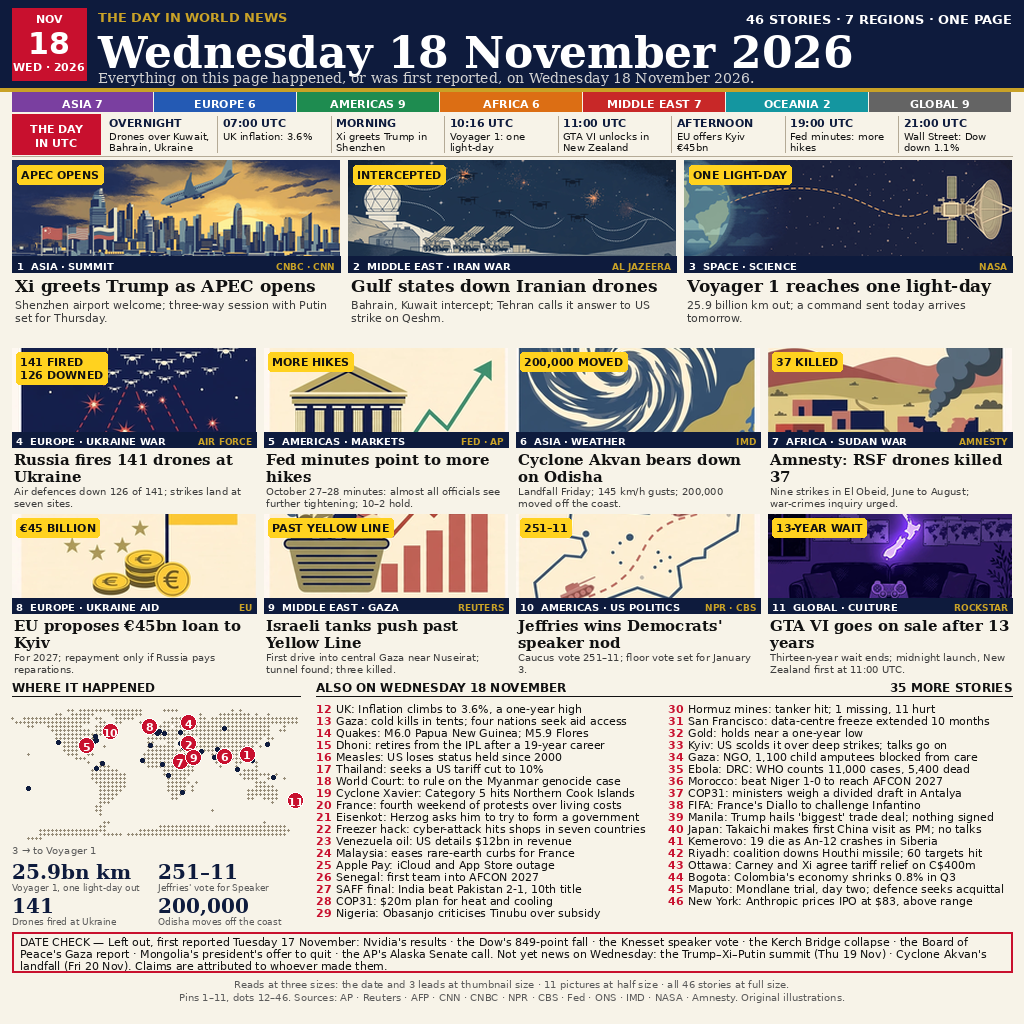
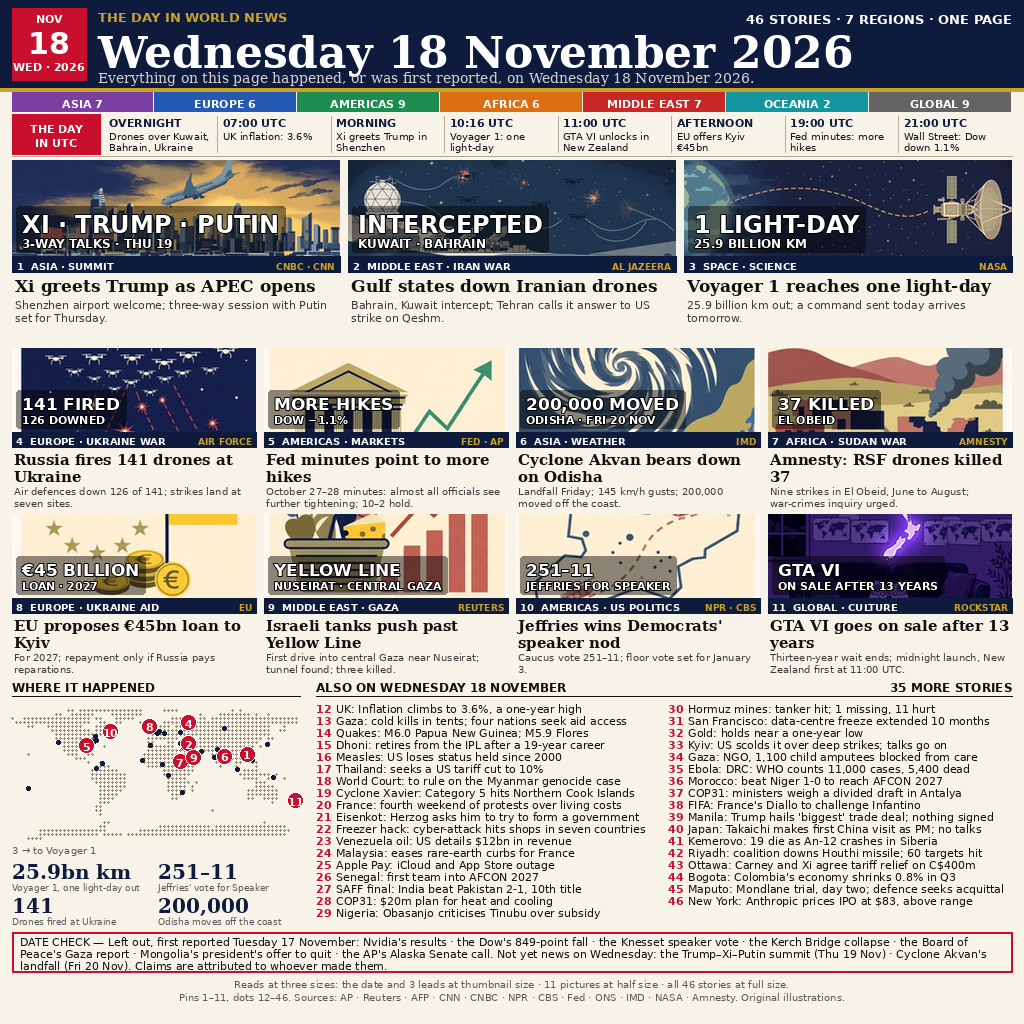
v9: big in-art text on all 11 front images, rstrike-style

diff --git a/draw.py b/draw.py
@@ -1,5 +1,5 @@
 #!/usr/bin/env python3
-"""news-image-20261118 v8: 46 stories, UTC timeline, region strip, in-art labels.
+"""news-image-20261118 v9: 46 stories, UTC timeline, region strip, big in-art text.
 Draws entry.png (1024x1024, deterministic) from assets/ + world.geo.json.
 Run: python3 draw.py  -> writes entry.png in this directory."""
 import json
@@ -39,6 +39,10 @@ F_HEAD_S = font("DejaVuSerif-Bold.ttf", 15)
 F_DECK = font("DejaVuSans.ttf", 11)
 F_DECK_S = font("DejaVuSans.ttf", 10)
 F_LABEL = font("DejaVuSans-Bold.ttf", 11)
+F_ART = font("DejaVuSans-Bold.ttf", 24)
+F_ART_S = font("DejaVuSans-Bold.ttf", 12)
+F_ART2 = font("DejaVuSans-Bold.ttf", 17)
+F_ART2_S = font("DejaVuSans-Bold.ttf", 11)
 F_ALSO = font("DejaVuSans.ttf", 11)
 F_ALSO_N = font("DejaVuSans-Bold.ttf", 11)
 F_SEC = font("DejaVuSans-Bold.ttf", 12)
@@ -68,52 +72,52 @@ TIMELINE = [
     ("21:00 UTC", "Wall Street: Dow down 1.1%"),
 ]
 
-# num, region, topic, source, headline, deck, in-art label, image
+# num, region, topic, source, headline, deck, in-art big, in-art small, image
 FRONT = [
     (1, "ASIA", "SUMMIT", "CNBC \u00b7 CNN",
      "Xi greets Trump as APEC opens",
      "Shenzhen airport welcome; three-way session with Putin set for Thursday.",
-     "APEC OPENS", "hero7a.png"),
+     "XI \u00b7 TRUMP \u00b7 PUTIN", "3-WAY TALKS \u00b7 THU 19", "hero7a.png"),
     (2, "MIDDLE EAST", "IRAN WAR", "AL JAZEERA",
      "Gulf states down Iranian drones",
      "Bahrain, Kuwait intercept; Tehran calls it answer to US strike on Qeshm.",
-     "INTERCEPTED", "hero7b.png"),
+     "INTERCEPTED", "KUWAIT \u00b7 BAHRAIN", "hero7b.png"),
     (3, "SPACE", "SCIENCE", "NASA",
      "Voyager 1 reaches one light-day",
      "25.9 billion km out; a command sent today arrives tomorrow.",
-     "ONE LIGHT-DAY", "hero7c.png"),
+     "1 LIGHT-DAY", "25.9 BILLION KM", "hero7c.png"),
     (4, "EUROPE", "UKRAINE WAR", "AIR FORCE",
      "Russia fires 141 drones at Ukraine",
      "Air defences down 126 of 141; strikes land at seven sites.",
-     "141 FIRED / 126 DOWNED", "s7-4.png"),
+     "141 FIRED", "126 DOWNED", "s7-4.png"),
     (5, "AMERICAS", "MARKETS", "FED \u00b7 AP",
      "Fed minutes point to more hikes",
      "October 27\u201328 minutes: almost all officials see further tightening; 10\u20132 hold.",
-     "MORE HIKES", "s7-5.png"),
+     "MORE HIKES", "DOW \u22121.1%", "s7-5.png"),
     (6, "ASIA", "WEATHER", "IMD",
      "Cyclone Akvan bears down on Odisha",
      "Landfall Friday; 145 km/h gusts; 200,000 moved off the coast.",
-     "200,000 MOVED", "s7-6.png"),
+     "200,000 MOVED", "ODISHA \u00b7 FRI 20 NOV", "s7-6.png"),
     (7, "AFRICA", "SUDAN WAR", "AMNESTY",
      "Amnesty: RSF drones killed 37",
      "Nine strikes in El Obeid, June to August; war-crimes inquiry urged.",
-     "37 KILLED", "s7-7.png"),
+     "37 KILLED", "EL OBEID", "s7-7.png"),
     (8, "EUROPE", "UKRAINE AID", "EU",
      "EU proposes \u20ac45bn loan to Kyiv",
      "For 2027; repayment only if Russia pays reparations.",
-     "\u20ac45 BILLION", "s7-8.png"),
+     "\u20ac45 BILLION", "LOAN \u00b7 2027", "s7-8.png"),
     (9, "MIDDLE EAST", "GAZA", "REUTERS",
      "Israeli tanks push past Yellow Line",
      "First drive into central Gaza near Nuseirat; tunnel found; three killed.",
-     "PAST YELLOW LINE", "s7-9.png"),
+     "YELLOW LINE", "NUSEIRAT \u00b7 CENTRAL GAZA", "s7-9.png"),
     (10, "AMERICAS", "US POLITICS", "NPR \u00b7 CBS",
      "Jeffries wins Democrats' speaker nod",
      "Caucus vote 251\u201311; floor vote set for January 3.",
-     "251\u201311", "s7-10.png"),
+     "251\u201311", "JEFFRIES FOR SPEAKER", "s7-10.png"),
     (11, "GLOBAL", "CULTURE", "ROCKSTAR",
      "GTA VI goes on sale after 13 years",
      "Thirteen-year wait ends; midnight launch, New Zealand first at 11:00 UTC.",
-     "13-YEAR WAIT", "s8-11.png"),
+     "GTA VI", "ON SALE AFTER 13 YEARS", "s8-11.png"),
 ]
 
 # num, city, text
@@ -227,6 +231,24 @@ def pill(d, x, y, text, fg=INK, bg=YELLOW, fnt=F_LABEL, pad=4):
     return w, h
 
 
+def art_text(img, d, x, y, w, h, big, small, f_big, f_small):
+    """Big short text inside the art, rstrike-style: white bold on a dark scrim."""
+    bw = int(d.textlength(big, font=f_big))
+    sw = int(d.textlength(small, font=f_small)) if small else 0
+    tw = max(bw, sw)
+    bh = f_big.size + f_small.size + 10
+    ox = Image.new("RGBA", img.size, (0, 0, 0, 0))
+    od = ImageDraw.Draw(ox)
+    od.rounded_rectangle([x + 4, y + h - bh - 4, x + 4 + tw + 12, y + h - 4],
+                         radius=3, fill=(0, 0, 0, 115))
+    img.paste(ox, (0, 0), ox)
+    d.text((x + 10, y + h - bh), big, font=f_big, fill="white",
+           stroke_width=1, stroke_fill=(0, 0, 0))
+    if small:
+        d.text((x + 10, y + h - bh + f_big.size + 2), small, font=f_small,
+               fill="white", stroke_width=1, stroke_fill=(0, 0, 0))
+
+
 # pixel nudges so clustered pins stay readable (map is small)
 PIN_OFF = {2: (-8, -8), 4: (8, -10), 5: (-8, 4), 8: (-10, -6), 9: (10, 10),
            10: (16, -10)}
@@ -323,11 +345,11 @@ def main():
     # ---- heroes 160-342 ----
     hy = 160
     hw = 328
-    for i, (num, reg, topic, src, head, deck, label, fn) in enumerate(FRONT[:3]):
+    for i, (num, reg, topic, src, head, deck, big, small, fn) in enumerate(FRONT[:3]):
         cx = 12 + i * (hw + 8)
         im = cover(Image.open(os.path.join(A, fn)).convert("RGB"), hw, 96)
         img.paste(im, (cx, hy))
-        pill(d, cx + 5, hy + 5, label)
+        art_text(img, d, cx, hy, hw, 96, big, small, F_ART, F_ART_S)
         d.rectangle([cx, hy + 96, cx + hw, hy + 112], fill=NAVY)
         d.text((cx + 5, hy + 100), "%d  %s \u00b7 %s" % (num, reg, topic),
                font=F_KICK, fill="white")
@@ -346,12 +368,12 @@ def main():
     for r in range(2):
         for c in range(4):
             k = 3 + r * 4 + c
-            num, reg, topic, src, head, deck, label, fn = FRONT[k]
+            num, reg, topic, src, head, deck, big, small, fn = FRONT[k]
             cx = 12 + c * (sw_ + 8)
             cy = 348 + r * 166
             im = cover(Image.open(os.path.join(A, fn)).convert("RGB"), sw_, 84)
             img.paste(im, (cx, cy))
-            pill(d, cx + 4, cy + 4, label)
+            art_text(img, d, cx, cy, sw_, 84, big, small, F_ART2, F_ART2_S)
             d.rectangle([cx, cy + 84, cx + sw_, cy + 99], fill=NAVY)
             d.text((cx + 4, cy + 87), "%d  %s \u00b7 %s" % (num, reg, topic),
                    font=F_KICK, fill="white")

diff --git a/NOTES.md b/NOTES.md
@@ -17,4 +17,6 @@
 - NOT submitted. Shown to user first; submit ONLY on the user's explicit word "submit". Gate terakhir (v4): 13/14, satu gagal transcripts_run_record — berkas run record belum dibuat, menunggu keputusan user soal safety flag.
 - SUBMITTED v6 2026-11-18 16:01 WIB (atas perintah "Oke submit sekarang"): claim AF-EYMYS-WQP01-MGCX4-6TSMT, submission 01a1ede4-1429-71f5-8e21-704c4d99a822, grade 98.1243% (12-0), rank 757 live 2026-11-19 — jauh di luar top 50. Quota 1/3 used, 2 left.
 - Image v7 (user: lihat LB no 1, buat gambar sebagus LB 1 dan bisa menyaingi top 1, pakai 100milionseek): entry.png 1024x1024, 516,829 bytes (<1 MiB), sha256 a8efe014d0c454f0f44bda3241b76c3ada5ba9a8014531c167a28b1821f8a597, deterministic. Struktur rank 1 live (yoshifumi-nagata 99.2624%, 19 Nov): 11 cerita depan (3 hero + 8 kartu), sumber di tiap cerita, kotak DATE CHECK, 38 cerita, peta + legenda + 4 angka besar. Ilustrasi flat-vector baru (3 hero + 8 kecil, gaya koran). Front 11 hanya cerita yang jelas 18 Nov: APEC Xi-Trump Shenzhen, Bahrain/Kuwait cegat drone Iran, Voyager 1 satu hari-cahaya (25,9 miliar km, 10:16 UTC), Rusia 141 drone/126 jatuh, risalah Fed (10–2 tahan 3,75–4%), Siklon Akvan, Amnesty RSF El Obeid 37 tewas, pinjaman EU €45 miliar, inflasi UK 3,6%, tank Israel Nuseirat, Jeffries 251–11. Dow -849, hasil Nvidia, vote Knesset, runtuhnya jembatan Kerch dipindah ke DATE CHECK sebagai berita Selasa 17 Nov. Semua angka baru terverifikasi live 19 Nov (NASA, Fed, ONS, Amnesty, ISW). 100milionseek: API teks DeepSeek gratis (100M token/hari, 100milionseek.top), bukan generator gambar; butuh daftar email + human check untuk API key, jadi gambar dibuat dengan image tool + kode seperti biasa. v7 SUBMITTED 2026-11-19 12:02 WIB (atas perintah "Okey submit"): claim AF-7S8H7-VWRZK-C6HVM-1W021, submission 01a1f22f-7b53-7460-8f9d-0ecdb6f64c32, stage "scored", semua check server lolos termasuk transcripts_run_record. Leaderboard live 14:21 WIB: rank 152, 98.5464% — di luar top 50. main.py terverifikasi byte-for-byte.
-- Image v8 (user: kejar top 10, buat lagi yang lebih bagus menyaingi top 1, pakai 100milionseek, berita dan gambar harus nyambung): entry.png 1024x1024, 510,459 bytes (<1 MiB), sha256 3299633985eb16858d8cc887bd1df0e934e041447c917daf06919cb3f1cc6e2b, deterministic. Struktur top 1 live (rstrike 99.1808%, 19 Nov): strip region 7 wilayah + strip timeline UTC 8 beat (Overnight, 07:00 UK 3,6%, Morning Xi-Trump, 10:16 Voyager, 11:00 GTA VI NZ, Afternoon EU €45bn, 19:00 Fed, 21:00 Dow -1,1%) + 11 cerita depan dengan label angka DI DALAM gambar (141 FIRED / 126 DOWNED, €45 BILLION, 251–11, 13-YEAR WAIT) + 46 cerita + peta pin 1–11 + DATE CHECK tambah "Not yet news". Front 11 = 10 v7 (inflasi UK pindah ke also #12 + timeline) + GTA VI #11 (ilustrasi baru s8-11.png: gamepad ungu, jam 12 malam, peta NZ menyala). Also 12–46 = 27 v7 (minus GTA VI) + UK 3,6% + 8 baru terverifikasi live 19 Nov: Manila (deal dagang Trump, nothing signed), Takaichi (kunjungan pertama ke China), Kemerovo (An-12, 19 tewas), Riyadh (rudal Houthi dicegat), Ottawa (Carney–Xi, C$400m), Bogota (ekonomi -0,8% Q3), Maputo (sidang Mondlane hari ke-2), New York (IPO Anthropic $83). Also #32 China-Canada diganti Gold (duplikat #43 Ottawa). 100milionseek: key SUDAH ADA di ~/workspace/100milionseek/hms.env (dari kerja BTC race) — DeepSeek dipakai untuk headline/deck/label/brief ilustrasi (prompt /tmp/v8-prompt.txt, 2066 + 3326 token); gambar tetap image tool + kode. Top 10 cutoff live 99.0837% (rank 10 mellow-otter-50); v8 butuh +0,54 poin dari v7. BELUM disubmit — tunjukkan ke user dulu, submit hanya atas kata "submit".
+- Image v8 (user: kejar top 10, buat lagi yang lebih bagus menyaingi top 1, pakai 100milionseek, berita dan gambar harus nyambung): entry.png 1024x1024, 510,459 bytes (<1 MiB), sha256 3299633985eb16858d8cc887bd1df0e934e041447c917daf06919cb3f1cc6e2b, deterministic. Struktur top 1 live (rstrike 99.1808%, 19 Nov): strip region 7 wilayah + strip timeline UTC 8 beat (Overnight, 07:00 UK 3,6%, Morning Xi-Trump, 10:16 Voyager, 11:00 GTA VI NZ, Afternoon EU €45bn, 19:00 Fed, 21:00 Dow -1,1%) + 11 cerita depan dengan label angka DI DALAM gambar (141 FIRED / 126 DOWNED, €45 BILLION, 251–11, 13-YEAR WAIT) + 46 cerita + peta pin 1–11 + DATE CHECK tambah "Not yet news". Front 11 = 10 v7 (inflasi UK pindah ke also #12 + timeline) + GTA VI #11 (ilustrasi baru s8-11.png: gamepad ungu, jam 12 malam, peta NZ menyala). Also 12–46 = 27 v7 (minus GTA VI) + UK 3,6% + 8 baru terverifikasi live 19 Nov: Manila (deal dagang Trump, nothing signed), Takaichi (kunjungan pertama ke China), Kemerovo (An-12, 19 tewas), Riyadh (rudal Houthi dicegat), Ottawa (Carney–Xi, C$400m), Bogota (ekonomi -0,8% Q3), Maputo (sidang Mondlane hari ke-2), New York (IPO Anthropic $83). Also #32 China-Canada diganti Gold (duplikat #43 Ottawa). 100milionseek: key SUDAH ADA di ~/workspace/100milionseek/hms.env (dari kerja BTC race) — DeepSeek dipakai untuk headline/deck/label/brief ilustrasi (prompt /tmp/v8-prompt.txt, 2066 + 3326 token); gambar tetap image tool + kode. Top 10 cutoff live 99.0837% (rank 10 mellow-otter-50); v8 butuh +0,54 poin dari v7. Commit ec31003aca46cc3148550264593806f8815b691a, push 19 Nov ~14:32 WIB. Kit FRESH diunduh 19 Nov ~14:32 WIB (RULES 86.053 -> 87.278 byte; aturan baru: system-prompt harus file prompt asli app ~/workspace/system/system_prompt.md — v8 pakai itu, OK; thinking_priced di bawah 100% kini warning bukan reject). Bundle baru sha256 f16bf4bdc6d68a2c1f61fc59b0f6404d200b5629dab789bfce02423d6b8b28b6 (1.524.848 byte), system prompt uploaded, instructions collected (2). Kit check fresh: 14 pass, 0 fail, 6 skip; transcripts_run_record PASS. Gate 19 Nov ~14:37 WIB: GATE: ALLOW SUBMIT — 31/31 witnessed (s8-11.png sempat FAIL di gate pertama, diperbaiki cp absolut + re-bundle, lalu 31/31), thinking_reproduces 78,1% authored, thinking_priced 18 rows, grader-sandbox PASS deterministik, kuota sisa 2. BELUM disubmit — tunjukkan ke user dulu, submit hanya atas kata "submit".
+
+- Image v9 (user 19 Nov ~14:46 WIB: "Ada 1 yang membuat dia bisa top 1. Ada tulisan di setiap gambarnya. Dan tulisannya sedikit tapi sangat to the point, coba buat seperti itu juga"): pill kuning kecil di 11 gambar depan DIGANTI teks besar putih bold di DALAM gambar, gaya rstrike — baris besar + baris kecil, di atas scrim gelap: "XI · TRUMP · PUTIN / 3-WAY TALKS · THU 19", "INTERCEPTED / KUWAIT · BAHRAIN", "1 LIGHT-DAY / 25.9 BILLION KM", "141 FIRED / 126 DOWNED", "MORE HIKES / DOW −1.1%", "200,000 MOVED / ODISHA · FRI 20 NOV", "37 KILLED / EL OBEID", "€45 BILLION / LOAN · 2027", "YELLOW LINE / NUSEIRAT · CENTRAL GAZA", "251–11 / JEFFRIES FOR SPEAKER", "GTA VI / ON SALE AFTER 13 YEARS". draw.py diedit in-session (fungsi art_text baru, F_ART 24/12, F_ART2 17/11); entry.png 525.073 byte, sha256 fbc22dcd0f1675ac38db5ed83d02b8db6a6cb9121c33e4fa348e7292d81ba340, no truncation, semua lebar teks muat (maks 257/312 hero, 167/228 small), verifikasi visual OK — semua 11 teks terbaca, #9 Gaza kini terbaca lewat teks walau gambarnya masih grafik batang, #11 GTA kini didominasi teks besar gaya rstrike. BELUM disubmit — tunjukkan ke user dulu, submit hanya atas kata "submit".
